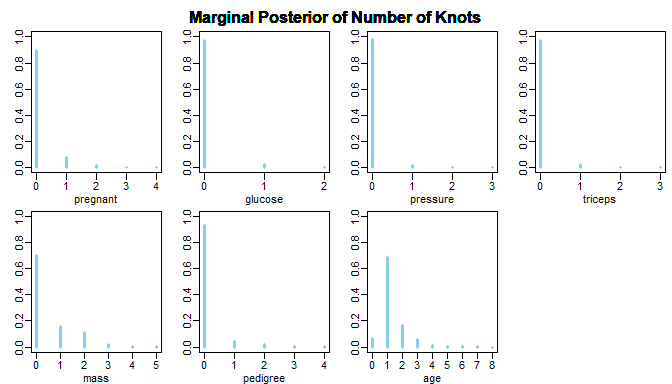
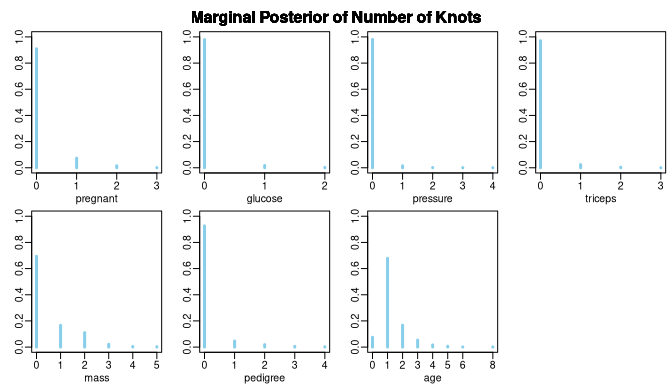
resubmission

diff --git a/README.md b/README.md
@@ -115,15 +115,15 @@ plotresiduals(fit_Pima)
     #> ------------------------------------------------------------- 
     #> Marginal probability that sm is linear: 
     #> pregnant  glucose pressure  triceps     mass pedigree      age 
-    #>    0.900    0.980    0.980    0.970    0.700    0.930    0.066 
+    #>    0.910    0.980    0.980    0.970    0.690    0.930    0.075 
     #> ------------------------------------------------------------- 
     #> Linear coefficients:
     #>                mean  median      sd z_score lower95 upper95
-    #> (Intercept) -1.0794 -1.0750  0.1440 -7.4943 -1.3721 -0.8054
+    #> (Intercept) -1.0770 -1.0748  0.1452 -7.4184 -1.3726 -0.7993
     #> ------------------------------------------------------------ 
     #> Sampled g values:
     #>       mean   median       sd  lower95  upper95
-    #> g  62.2392  59.7952  16.2000  41.1786 104.7524
+    #> g  62.4084  59.8361  16.9437  40.9775 104.7476
     #> -------------------------------------------------------------
 
 <img src="man/figures/README-unnamed-chunk-6-1.png" width="100%" /><img src="man/figures/README-unnamed-chunk-6-2.png" width="100%" />
@@ -153,58 +153,63 @@ lines(u, dtCCH(u, a, b, z, s, nu, theta), col="#008631", lwd=2, lty=2)
 
 ## System environment
 
-I built the package and conducted the simulations under the following
+I built the package and executed the above examples under the following
 environment:
 
 ``` r
 sessioninfo::session_info()
-#> - Session info ---------------------------------------------------------------
+#> ─ Session info ───────────────────────────────────────────────────────────────
 #>  setting  value
-#>  version  R version 4.1.2 (2021-11-01)
-#>  os       Windows 10 x64 (build 22631)
-#>  system   x86_64, mingw32
-#>  ui       RTerm
+#>  version  R version 4.3.3 (2024-02-29)
+#>  os       Fedora Linux 39 (Server Edition)
+#>  system   x86_64, linux-gnu
+#>  ui       X11
 #>  language (EN)
-#>  collate  English_United States.1252
-#>  ctype    English_United States.1252
-#>  tz       Asia/Seoul
+#>  collate  en_US.UTF-8
+#>  ctype    en_US.UTF-8
+#>  tz       America/New_York
 #>  date     2024-08-18
-#>  pandoc   3.1.11 @ C:/Program Files/RStudio/resources/app/bin/quarto/bin/tools/ (via rmarkdown)
+#>  pandoc   3.1.11 @ /usr/lib/rstudio-server/bin/quarto/bin/tools/x86_64/ (via rmarkdown)
 #> 
-#> - Packages -------------------------------------------------------------------
+#> ─ Packages ───────────────────────────────────────────────────────────────────
 #>  package     * version    date (UTC) lib source
-#>  cli           3.6.2      2023-12-11 [2] CRAN (R 4.1.2)
-#>  digest        0.6.35     2024-03-11 [2] CRAN (R 4.1.2)
-#>  evaluate      0.24.0     2024-06-10 [2] CRAN (R 4.1.2)
-#>  fastmap       1.2.0      2024-05-15 [2] CRAN (R 4.1.2)
+#>  cli           3.6.3      2024-06-21 [4] CRAN (R 4.3.3)
+#>  digest        0.6.36     2024-06-23 [4] CRAN (R 4.3.3)
+#>  evaluate      0.24.0     2024-06-10 [4] CRAN (R 4.3.3)
+#>  fastmap       1.2.0      2024-05-15 [4] CRAN (R 4.3.3)
 #>  gambms      * 0.0.0.9000 2024-08-18 [1] local
-#>  highr         0.11       2024-05-26 [2] CRAN (R 4.1.2)
-#>  htmltools     0.5.8.1    2024-04-04 [2] CRAN (R 4.1.2)
-#>  knitr         1.47       2024-05-29 [2] CRAN (R 4.1.2)
-#>  Rcpp          1.0.12     2024-01-09 [2] CRAN (R 4.1.2)
-#>  rlang         1.1.4      2024-06-04 [2] CRAN (R 4.1.2)
-#>  rmarkdown     2.27       2024-05-17 [2] CRAN (R 4.1.2)
-#>  rstudioapi    0.16.0     2024-03-24 [2] CRAN (R 4.1.2)
-#>  sessioninfo   1.2.2      2021-12-06 [2] CRAN (R 4.1.3)
-#>  xfun          0.44       2024-05-15 [2] CRAN (R 4.1.2)
-#>  yaml          2.3.8      2023-12-11 [2] CRAN (R 4.1.2)
+#>  highr         0.11       2024-05-26 [4] CRAN (R 4.3.3)
+#>  htmltools     0.5.8      2024-03-25 [3] CRAN (R 4.3.2)
+#>  knitr         1.48       2024-07-07 [4] CRAN (R 4.3.3)
+#>  Rcpp          1.0.13     2024-07-17 [3] CRAN (R 4.3.3)
+#>  rlang         1.1.4      2024-06-04 [4] CRAN (R 4.3.3)
+#>  rmarkdown     2.28       2024-08-17 [4] CRAN (R 4.3.3)
+#>  rstudioapi    0.16.0     2024-03-24 [3] CRAN (R 4.3.2)
+#>  sessioninfo   1.2.2      2021-12-06 [4] CRAN (R 4.3.1)
+#>  xfun          0.47       2024-08-17 [2] CRAN (R 4.3.3)
+#>  yaml          2.3.10     2024-07-26 [4] CRAN (R 4.3.3)
 #> 
-#>  [1] C:/Users/hunlearning/AppData/Local/Temp/RtmpiOKgYf/temp_libpath62d827772698
-#>  [2] C:/Users/hunlearning/Documents/R/win-library/4.1
-#>  [3] C:/Program Files/R/R-4.1.2/library
+#>  [1] /tmp/Rtmp2dNjrV/temp_libpath27d001c681ebd
+#>  [2] /home/g/gk149/R/x86_64-redhat-linux-gnu-library/4.3
+#>  [3] /usr/local/lib/R/library
+#>  [4] /usr/lib64/R/library
+#>  [5] /usr/share/R/library
 #> 
-#> ------------------------------------------------------------------------------
+#> ──────────────────────────────────────────────────────────────────────────────
 ```
 
 ``` r
 system("gcc -v")
-#> Using built-in specs.
-#> COLLECT_GCC=C:\PROGRA~1\mingw64\bin\gcc.exe
-#> COLLECT_LTO_WRAPPER=C:/PROGRA~1/mingw64/bin/../libexec/gcc/x86_64-w64-mingw32/8.1.0/lto-wrapper.exe
-#> Target: x86_64-w64-mingw32
-#> Configured with: ../../../src/gcc-8.1.0/configure --host=x86_64-w64-mingw32 --build=x86_64-w64-mingw32 --target=x86_64-w64-mingw32 --prefix=/mingw64 --with-sysroot=/c/mingw810/x86_64-810-posix-seh-rt_v6-rev0/mingw64 --enable-shared --enable-static --disable-multilib --enable-languages=c,c++,fortran,lto --enable-libstdcxx-time=yes --enable-threads=posix --enable-libgomp --enable-libatomic --enable-lto --enable-graphite --enable-checking=release --enable-fully-dynamic-string --enable-version-specific-runtime-libs --disable-libstdcxx-pch --disable-libstdcxx-debug --enable-bootstrap --disable-rpath --disable-win32-registry --disable-nls --disable-werror --disable-symvers --with-gnu-as --with-gnu-ld --with-arch=nocona --with-tune=core2 --with-libiconv --with-system-zlib --with-gmp=/c/mingw810/prerequisites/x86_64-w64-mingw32-static --with-mpfr=/c/mingw810/prerequisites/x86_64-w64-mingw32-static --with-mpc=/c/mingw810/prerequisites/x86_64-w64-mingw32-static --with-isl=/c/mingw810/prerequisites/x86_64-w64-mingw32-static --with-pkgversion='x86_64-posix-seh-rev0, Built by MinGW-W64 project' --with-bugurl=https://sourceforge.net/projects/mingw-w64 CFLAGS='-O2 -pipe -fno-ident -I/c/mingw810/x86_64-810-posix-seh-rt_v6-rev0/mingw64/opt/include -I/c/mingw810/prerequisites/x86_64-zlib-static/include -I/c/mingw810/prerequisites/x86_64-w64-mingw32-static/include' CXXFLAGS='-O2 -pipe -fno-ident -I/c/mingw810/x86_64-810-posix-seh-rt_v6-rev0/mingw64/opt/include -I/c/mingw810/prerequisites/x86_64-zlib-static/include -I/c/mingw810/prerequisites/x86_64-w64-mingw32-static/include' CPPFLAGS=' -I/c/mingw810/x86_64-810-posix-seh-rt_v6-rev0/mingw64/opt/include -I/c/mingw810/prerequisites/x86_64-zlib-static/include -I/c/mingw810/prerequisites/x86_64-w64-mingw32-static/include' LDFLAGS='-pipe -fno-ident -L/c/mingw810/x86_64-810-posix-seh-rt_v6-rev0/mingw64/opt/lib -L/c/mingw810/prerequisites/x86_64-zlib-static/lib -L/c/mingw810/prerequisites/x86_64-w64-mingw32-static/lib '
-#> Thread model: posix
-#> gcc version 8.1.0 (x86_64-posix-seh-rev0, Built by MinGW-W64 project) 
+#>Using built-in specs.
+#>COLLECT_GCC=gcc
+#>COLLECT_LTO_WRAPPER=/usr/libexec/gcc/x86_64-redhat-linux/13/lto-wrapper
+#>OFFLOAD_TARGET_NAMES=nvptx-none
+#>OFFLOAD_TARGET_DEFAULT=1
+#>Target: x86_64-redhat-linux
+#>Configured with: ../configure --enable-bootstrap --enable-languages=c,c++,fortran,objc,obj-c++,ada,go,d,m2,lto --prefix=/usr --mandir=/usr/share/man --infodir=/usr/share/info --with-bugurl=http://bugzilla.redhat.com/bugzilla --enable-shared --enable-threads=posix --enable-checking=release --enable-multilib --with-system-zlib --enable-__cxa_atexit --disable-libunwind-exceptions --enable-gnu-unique-object --enable-linker-build-id --with-gcc-major-version-only --enable-libstdcxx-backtrace --with-libstdcxx-zoneinfo=/usr/share/zoneinfo --with-linker-hash-style=gnu --enable-plugin --enable-initfini-array --with-isl=/builddir/build/BUILD/gcc-13.3.1-20240522/obj-x86_64-redhat-linux/isl-install --enable-offload-targets=nvptx-none --without-cuda-driver --enable-offload-defaulted --enable-gnu-indirect-function --enable-cet --with-tune=generic --with-arch_32=i686 --build=x86_64-redhat-linux --with-build-config=bootstrap-lto --enable-link-serialization=1
+#>Thread model: posix
+#>Supported LTO compression algorithms: zlib zstd
+#>gcc version 13.3.1 20240522 (Red Hat 13.3.1-1) (GCC)
 ```
 
 <!-- What is special about using `README.Rmd` instead of just `README.md`? You can include R chunks like so: -->
